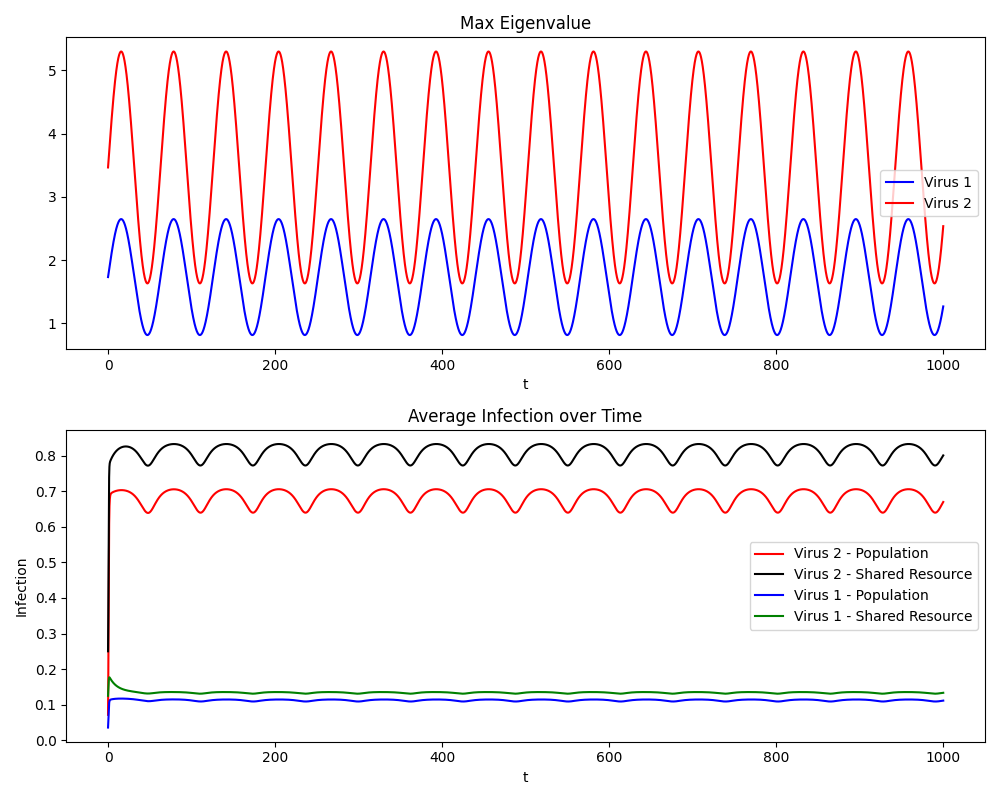
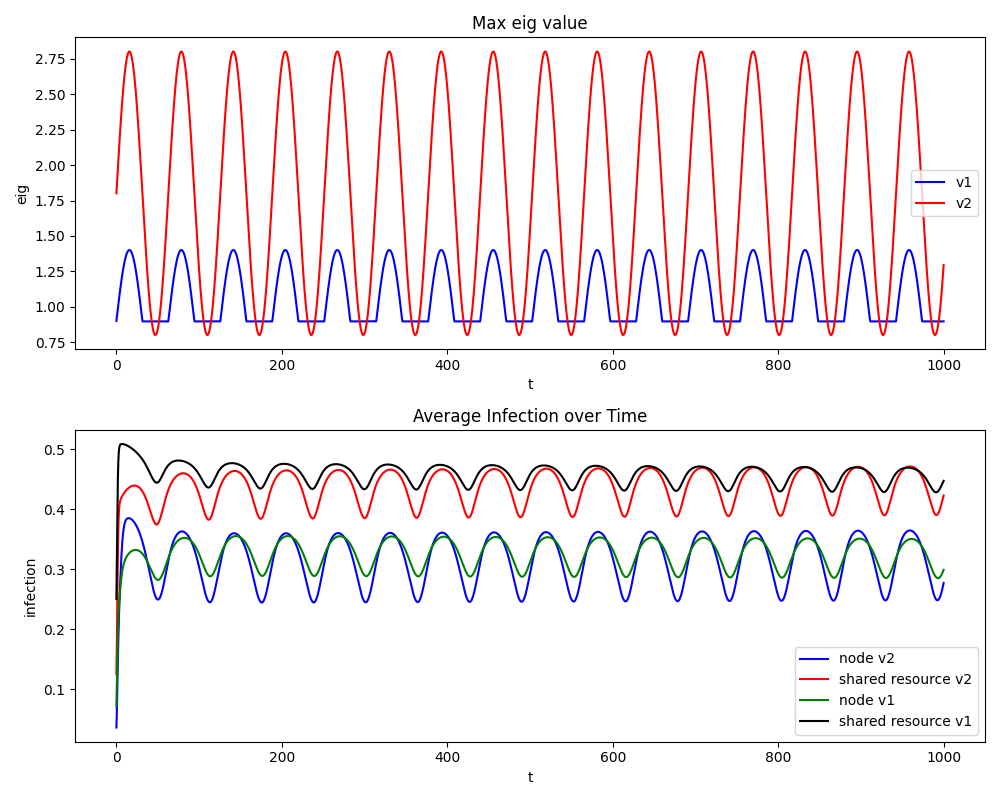
ignore this version

diff --git a/Journal_version/main.py b/Journal_version/main.py
@@ -1,27 +1,24 @@
 from my_classes import PopulationNode
 from my_classes import ResourceNode
 from my_classes import Animation
-from my_classes import PhasePlotAnimation
 import random
 import numpy as np 
 import matplotlib.pyplot as plt
 import sys
 import math
 #helper functions start here
-def calculate_alpha_jl(j, l, nodes, n, k): #resource j to resource l infection rate
+def calculate_alpha_jl(j, l, nodes, n): #resource j to resource l infection rate
     pos_j = np.array(nodes[n + j].position)
     pos_l = np.array(nodes[n + l].position)
     d = np.linalg.norm(pos_j - pos_l)
-    scaling = 1
-    scaling = nodes[n + l].v_1 if k == 1 else nodes[n + l].v_2
     if d < 10:
-        return np.exp(-d**2) * scaling
+        return np.exp(-d**2)
     else:
         return 0
-def sum_alpha_k(p, q, n, k):
+def sum_alpha_k(p, q, n):
     sum = 0
     for i in range(q):
-        sum = sum + calculate_alpha_jl(p, i, nodes, n, k)
+        sum = sum + calculate_alpha_jl(p, i, nodes, n)
     return sum
 
 def get_A_k_w(k, nodes, n):
@@ -29,7 +26,7 @@ def get_A_k_w(k, nodes, n):
     A_k_w = np.zeros((q, q))
     for i in range(q):
         for j in range(q):
-            A_k_w[i, j] = calculate_alpha_jl(i, j, nodes, n, k) - sum_alpha_k(i, q, n, k)
+            A_k_w[i, j] = calculate_alpha_jl(i, j, nodes, n) - sum_alpha_k(i, q, n)
     return A_k_w
 
 def calculate_bet_awk_ij(i, j, nodes, k, n, r=10):
@@ -41,15 +38,7 @@ def calculate_bet_awk_ij(i, j, nodes, k, n, r=10):
         weight = np.exp(-d**2)
     else:
         weight = 0
-
-    infection_rate = 1
-    infection_rate = nodes[n + j].v_1 if k == 1 else nodes[n + j].v_2
-    #there is no resource node infection rate?
-    # if(k == 1):
-    #     infection_rate = nodes[n + j].v_1
-    # elif(k == 2):
-    #     infection_rate = nodes[n + j].v_2
-    return weight * infection_rate
+    return weight
 
 def get_B_k_w(n, nodes, k):
     m = len(nodes) - n
@@ -62,7 +51,6 @@ def get_B_k_w(n, nodes, k):
                 w_j = nodes[n + j].v_2
 
             beta_wk_ij = calculate_bet_awk_ij(i, j, nodes, k, n)
-            #print(w_j)
             val = beta_wk_ij * w_j
             #print(beta_wk_ij, w_j, val)
             if(math.isnan(val) == True or math.isnan(w_j) == True):
@@ -70,7 +58,6 @@ def get_B_k_w(n, nodes, k):
 
             B_k_w[i, j] = val
 
-    #print(B_k_w)
     return B_k_w
                 
 def get_B_k(A, n, nodes, k):
@@ -87,7 +74,6 @@ def get_B_k(A, n, nodes, k):
                 sys.exit()
 
             B_k[i, j] = val
-    #print(B_k)
     return B_k
                 
 
@@ -210,8 +196,7 @@ def diff_equation(k, nodes, m):
         ])
 
         y_k_2 = ((-1 * D_k_f + (np.eye(n + m) - (X_y_1 + X_y_2)) @ B_k_f) @ y_k_1) * delta_t + y_k_1
-        A_MATRIX = (-1 * D_k_f + (np.eye(n + m) - (X_y_1 + X_y_2)) @ B_k_f)
-        return y_k_2, B_k_f, D_k_f, A_MATRIX
+        return y_k_2, B_k_f, D_k_f
 
 if __name__ == "__main__":
     n = 7 # number of population nodes
@@ -219,37 +204,38 @@ if __name__ == "__main__":
     # n = 2
     # m = 0
     #alpha = 0.1 # rate of infection from rnode to rnode
-    delta_1 = 0.4 # recovery rate 1 # make this 2 or 3 to have exponential decay of virus levels
-    delta_2 = 0.2 # recovery rate 2 
+    delta_1 = .1 # recovery rate 1
+    delta_2 = .2 # recovery rate 2 
+    beta_1 = 1
+    beta_2 = 1
     # v_1_init = 0.5 
     # v_2_init = 0.5
     scaling = 5
-    # bad_guys_1 = [0, 2, 8]
-    # bad_guys_2 = [1, 3, 5, 7]
-    bad_guys_1 = [0]
-    bad_guys_2 = [1]
+    bad_guys_1 = [0, 2, 8]
+    bad_guys_2 = [1, 3, 5, 7]
+    # bad_guys_1 = [0]
+    # bad_guys_2 = [1]
     nodes = []
     for i in range(n + m):
         v_1_init = 0
         v_2_init = 0
         if(i in bad_guys_1):
-            v_1_init = 0.5
+            v_1_init = 0.25
         elif(i in bad_guys_2):
             v_2_init = 0.25
         else:
             pass 
 
         x_pos = random.random() * scaling
-        y_pos = x_pos #random.random() * scaling    
-
+        y_pos = random.random() * scaling    
 
         if(i < n):
-            nodes.append(PopulationNode(x_pos, y_pos, delta_1, delta_2, v_1_init, v_2_init))
+            nodes.append(PopulationNode(x_pos, y_pos, beta_1, delta_1, beta_2, delta_2, v_1_init, v_2_init))
         else:
             nodes.append(ResourceNode(x_pos, y_pos, v_1_init, v_2_init, delta_1, delta_2))
 
     # Create and run animation
-    #anim = Animation()
+    # anim = Animation()
     t_start = 0
     sim_time =  1000 #2000
     delta_t = .05
@@ -284,8 +270,8 @@ if __name__ == "__main__":
         #     print(nodes[i].v_1, nodes[i].v_2)
         #beta's are time varying: (infection rate for population nodes)
         scaling = 0.5
-        beta_1_offset = 1
-        beta_2_offset = 2
+        beta_1_offset = .5
+        beta_2_offset = 1
         beta_1_new = beta_1_offset + scaling * np.sin(t_start / 10)
         beta_2_new = beta_2_offset + np.sin(t_start / 10)
         for l in range(n):
@@ -293,19 +279,11 @@ if __name__ == "__main__":
             this_node.beta_1 = beta_1_new
             this_node.beta_2 = beta_2_new
         #for each timestep solve the differential equation
-        y_2_v1, B_1_f, D_1_f, A_MATRIX_1 = diff_equation(1, nodes, m)
-        y_2_v2, B_2_f, D_2_f, A_MATRIX_2 = diff_equation(2, nodes, m)
-
-        #if any of the nodes are getting too large(v_1, v_2) exit the while loop to show results
-        for i in range(len(nodes)):
-            if nodes[i].v_1 > 100 or nodes[i].v_2 > 100:
-                print("Node", i, "exceeded limits:", nodes[i].v_1, nodes[i].v_2)
-                exit_loop = True
-                break
+        y_2_v1, B_1_f, D_1_f = diff_equation(1, nodes, m)
+        y_2_v2, B_2_f, D_2_f = diff_equation(2, nodes, m)
         #print(B_2_f)
-        if exit_loop:
-            break
 
+        
         eigvals_1, _ = np.linalg.eig(B_1_f - D_1_f)
         eig_val_v1.append(np.max(eigvals_1))
         t_val.append(t_start)
@@ -337,8 +315,8 @@ if __name__ == "__main__":
 
         #update the time 
         #t_start = t_start + delta_t
-        A_matrix_1 = A_MATRIX_1
-        A_matrix_2 = A_MATRIX_2
+        # A_matrix_1 = A_MATRIX_1
+        # A_matrix_2 = A_MATRIX_2
         #phase_anim.update(A_matrix_1, A_matrix_2, t_start)
         #phase_anim.compute_frame(A_matrix_1, A_matrix_2, t_start)
         #update the time 
@@ -351,46 +329,6 @@ if __name__ == "__main__":
 
 #plt.show()  # Display the final animation
 
-#############################################################################
-from matplotlib.animation import FuncAnimation, PillowWriter
-
-def save_phase_plot_gif(phase_anim, filename):
-    fig, ax = plt.subplots()
-    ax.set_xlim(0, 1)
-    ax.set_ylim(0, 1)
-
-    quivers = []
-
-    def init():
-        return quivers
-
-    def update(frame_data):
-        nonlocal quivers
-        t, arrows = frame_data
-
-        # Remove old quivers
-        for q in quivers:
-            q.remove()
-        quivers = []
-
-        for x, y, dx1, dy1, dx2, dy2 in arrows:
-            q1 = ax.quiver(x, y, dx1, dy1, color='blue', angles='xy', scale_units='xy', scale=1)
-            q2 = ax.quiver(x, y, dx2, dy2, color='red', angles='xy', scale_units='xy', scale=1)
-            quivers.extend([q1, q2])
-
-        ax.set_title(f"Phase Plot at t = {t:.2f}")
-        return quivers
-
-    ani = FuncAnimation(fig, update, frames=phase_anim.frames, init_func=init, blit=False)
-
-    writer = PillowWriter(fps=10)
-    ani.save(filename, writer=writer)
-    print(f"Saved phase plot animation as: {filename}")
-
-# Usage:
-# save_phase_plot_gif(phase_anim, "phase_plot.gif")
-######################################################
-
 
 
 
@@ -398,21 +336,21 @@ def save_phase_plot_gif(phase_anim, filename):
 fig, axs = plt.subplots(2, 1, figsize=(10, 8))  # 2 rows, 1 column
 
 # First plot: Max eig value
-axs[0].plot(t_val, eig_val_v1, color="blue", label="Virus 1")
-axs[0].plot(t_val, eig_val_v2, color="red", label="Virus 2")
-axs[0].set_title("Max Eigenvalue")
+axs[0].plot(t_val, eig_val_v1, color="blue", label="v1")
+axs[0].plot(t_val, eig_val_v2, color="red", label="v2")
+axs[0].set_title("Max eig value")
 axs[0].set_xlabel('t')
-#axs[0].set_ylabel('eig')
+axs[0].set_ylabel('eig')
 axs[0].legend()
 
 # Second plot: Average Infection over Time
-axs[1].plot(t_val, avg_val_list_v2, color="red", label="Virus 2 - Population")
-axs[1].plot(t_val, sr_vals_v2, color="black", label="Virus 2 - Shared Resource")
-axs[1].plot(t_val, avg_val_list_v1, color="blue", label="Virus 1 - Population")
-axs[1].plot(t_val, sr_vals_v1, color="green", label="Virus 1 - Shared Resource")
+axs[1].plot(t_val, avg_val_list_v2, color="blue", label="node v2")
+axs[1].plot(t_val, sr_vals_v2, color="red", label="shared resource v2")
+axs[1].plot(t_val, avg_val_list_v1, color="green", label="node v1")
+axs[1].plot(t_val, sr_vals_v1, color="black", label="shared resource v1")
 axs[1].set_title("Average Infection over Time")
 axs[1].set_xlabel('t')
-axs[1].set_ylabel('Infection')
+axs[1].set_ylabel('infection')
 axs[1].legend()
 
 # Adjust layout to avoid overlap

diff --git a/Journal_version/my_classes.py b/Journal_version/my_classes.py
@@ -50,19 +50,19 @@ class ResourceNode:
 
 
 class PopulationNode:
-    def __init__(self, x, y, recovery_rate_1, recovery_rate_2, v_1_init, v_2_init):
+    def __init__(self, x, y, infection_rate_1, recovery_rate_1, infection_rate_2, recovery_rate_2, v_1_init, v_2_init):
         self.x_pos = x
         self.y_pos = y
-        self.beta_1 = None #done in the while loop
+        self.beta_1 = infection_rate_1
         self.delta_1 = recovery_rate_1
-        self.beta_2 = None #done in the while loop
+        self.beta_2 = infection_rate_2
         self.delta_2 = recovery_rate_2
         self.v_1 = v_1_init
         self.v_2 = v_2_init
         #self.color = "blue"
         self.position = (x, y)
-        self.x_vel = random.gauss(0, 1) * 0.5
-        self.y_vel = random.gauss(0, 1) * 0.5
+        # self.x_vel = random.gauss(0, 1) * 0.5
+        # self.y_vel = random.gauss(0, 1) * 0.5
         self.x_vel = 0
         self.y_vel = 0
 
@@ -102,7 +102,7 @@ class Animation:
         self.node_list = []
         self.center = (2.5, 2.5)
         # Create figure and axis
-        #self.fig, self.ax = plt.subplots()
+        self.fig, self.ax = plt.subplots()
         
         # Handle list to store the patches and line objects
         self.handle = []
@@ -196,66 +196,4 @@ class Animation:
                 self.texts[i].set_position((x + 0.3, y + 0.3))
                 self.texts[i].set_text(f"v₁={node.v_1:.2f}\nv₂={node.v_2:.2f}")
         # Redraw the plot with the updated nodes
-        #plt.draw()
-
-
-
-
-# class PhasePlotAnimation:
-#     def __init__(self, initial_conditions):
-#         self.initial_conditions = initial_conditions
-#         self.fig, self.ax = plt.subplots()
-#         self.ax.set_xlim(0, 1)
-#         self.ax.set_ylim(0, 1)
-#         self.quiver_handles = []
-#         self.FlagInit = True
-
-#     def update(self, A_matrix_1, A_matrix_2, t_start):
-#         """
-#         y_init_list: list of initial condition vectors (each is shape (2,))
-#         A_matrix_1, A_matrix_2: matrices to multiply (each is shape (2,2))
-#         t: current time (optional, for title)
-#         """
-#         # Remove previous quivers
-#         y_init_list = self.initial_conditions
-#         for handle in self.quiver_handles:
-#             handle.remove()
-#         self.quiver_handles = []
-
-#         for y_init in y_init_list:
-#             y_dot_1 = A_matrix_1 @ y_init
-#             y_dot_2 = A_matrix_2 @ y_init
-#             # Plot y_dot_1 (blue arrow)
-#             q1 = self.ax.quiver(y_init[0], y_init[1], y_dot_1[0], y_dot_1[1], color='blue', angles='xy', scale_units='xy', scale=1, label='y_dot_1')
-#             # Plot y_dot_2 (red arrow)
-#             q2 = self.ax.quiver(y_init[0], y_init[1], y_dot_2[0], y_dot_2[1], color='red', angles='xy', scale_units='xy', scale=1, label='y_dot_2')
-#             self.quiver_handles.extend([q1, q2])
-
-
-#             self.ax.set_title(f"Phase Plot at t = {t_start:.2f}")
-
-#         #plt.draw()
-
-
-
-import matplotlib.pyplot as plt
-import matplotlib.animation as animation
-
-class PhasePlotAnimation:
-    def __init__(self, initial_conditions):
-        self.initial_conditions = initial_conditions
-        self.fig, self.ax = plt.subplots()
-        self.ax.set_xlim(0, 1)
-        self.ax.set_ylim(0, 1)
-        self.frames = []  # store all the arrows for each frame
-
-    def compute_frame(self, A_matrix_1, A_matrix_2, t_start):
-        """Compute and return a list of arrow data for a frame."""
-        y_init_list = self.initial_conditions
-        arrows = []
-        for y_init in y_init_list:
-            y_dot_1 = A_matrix_1 @ y_init
-            y_dot_2 = A_matrix_2 @ y_init
-            arrows.append((y_init[0], y_init[1], y_dot_1[0], y_dot_1[1], y_dot_2[0], y_dot_2[1]))
-        self.frames.append((t_start, arrows))
-
+        plt.draw()
